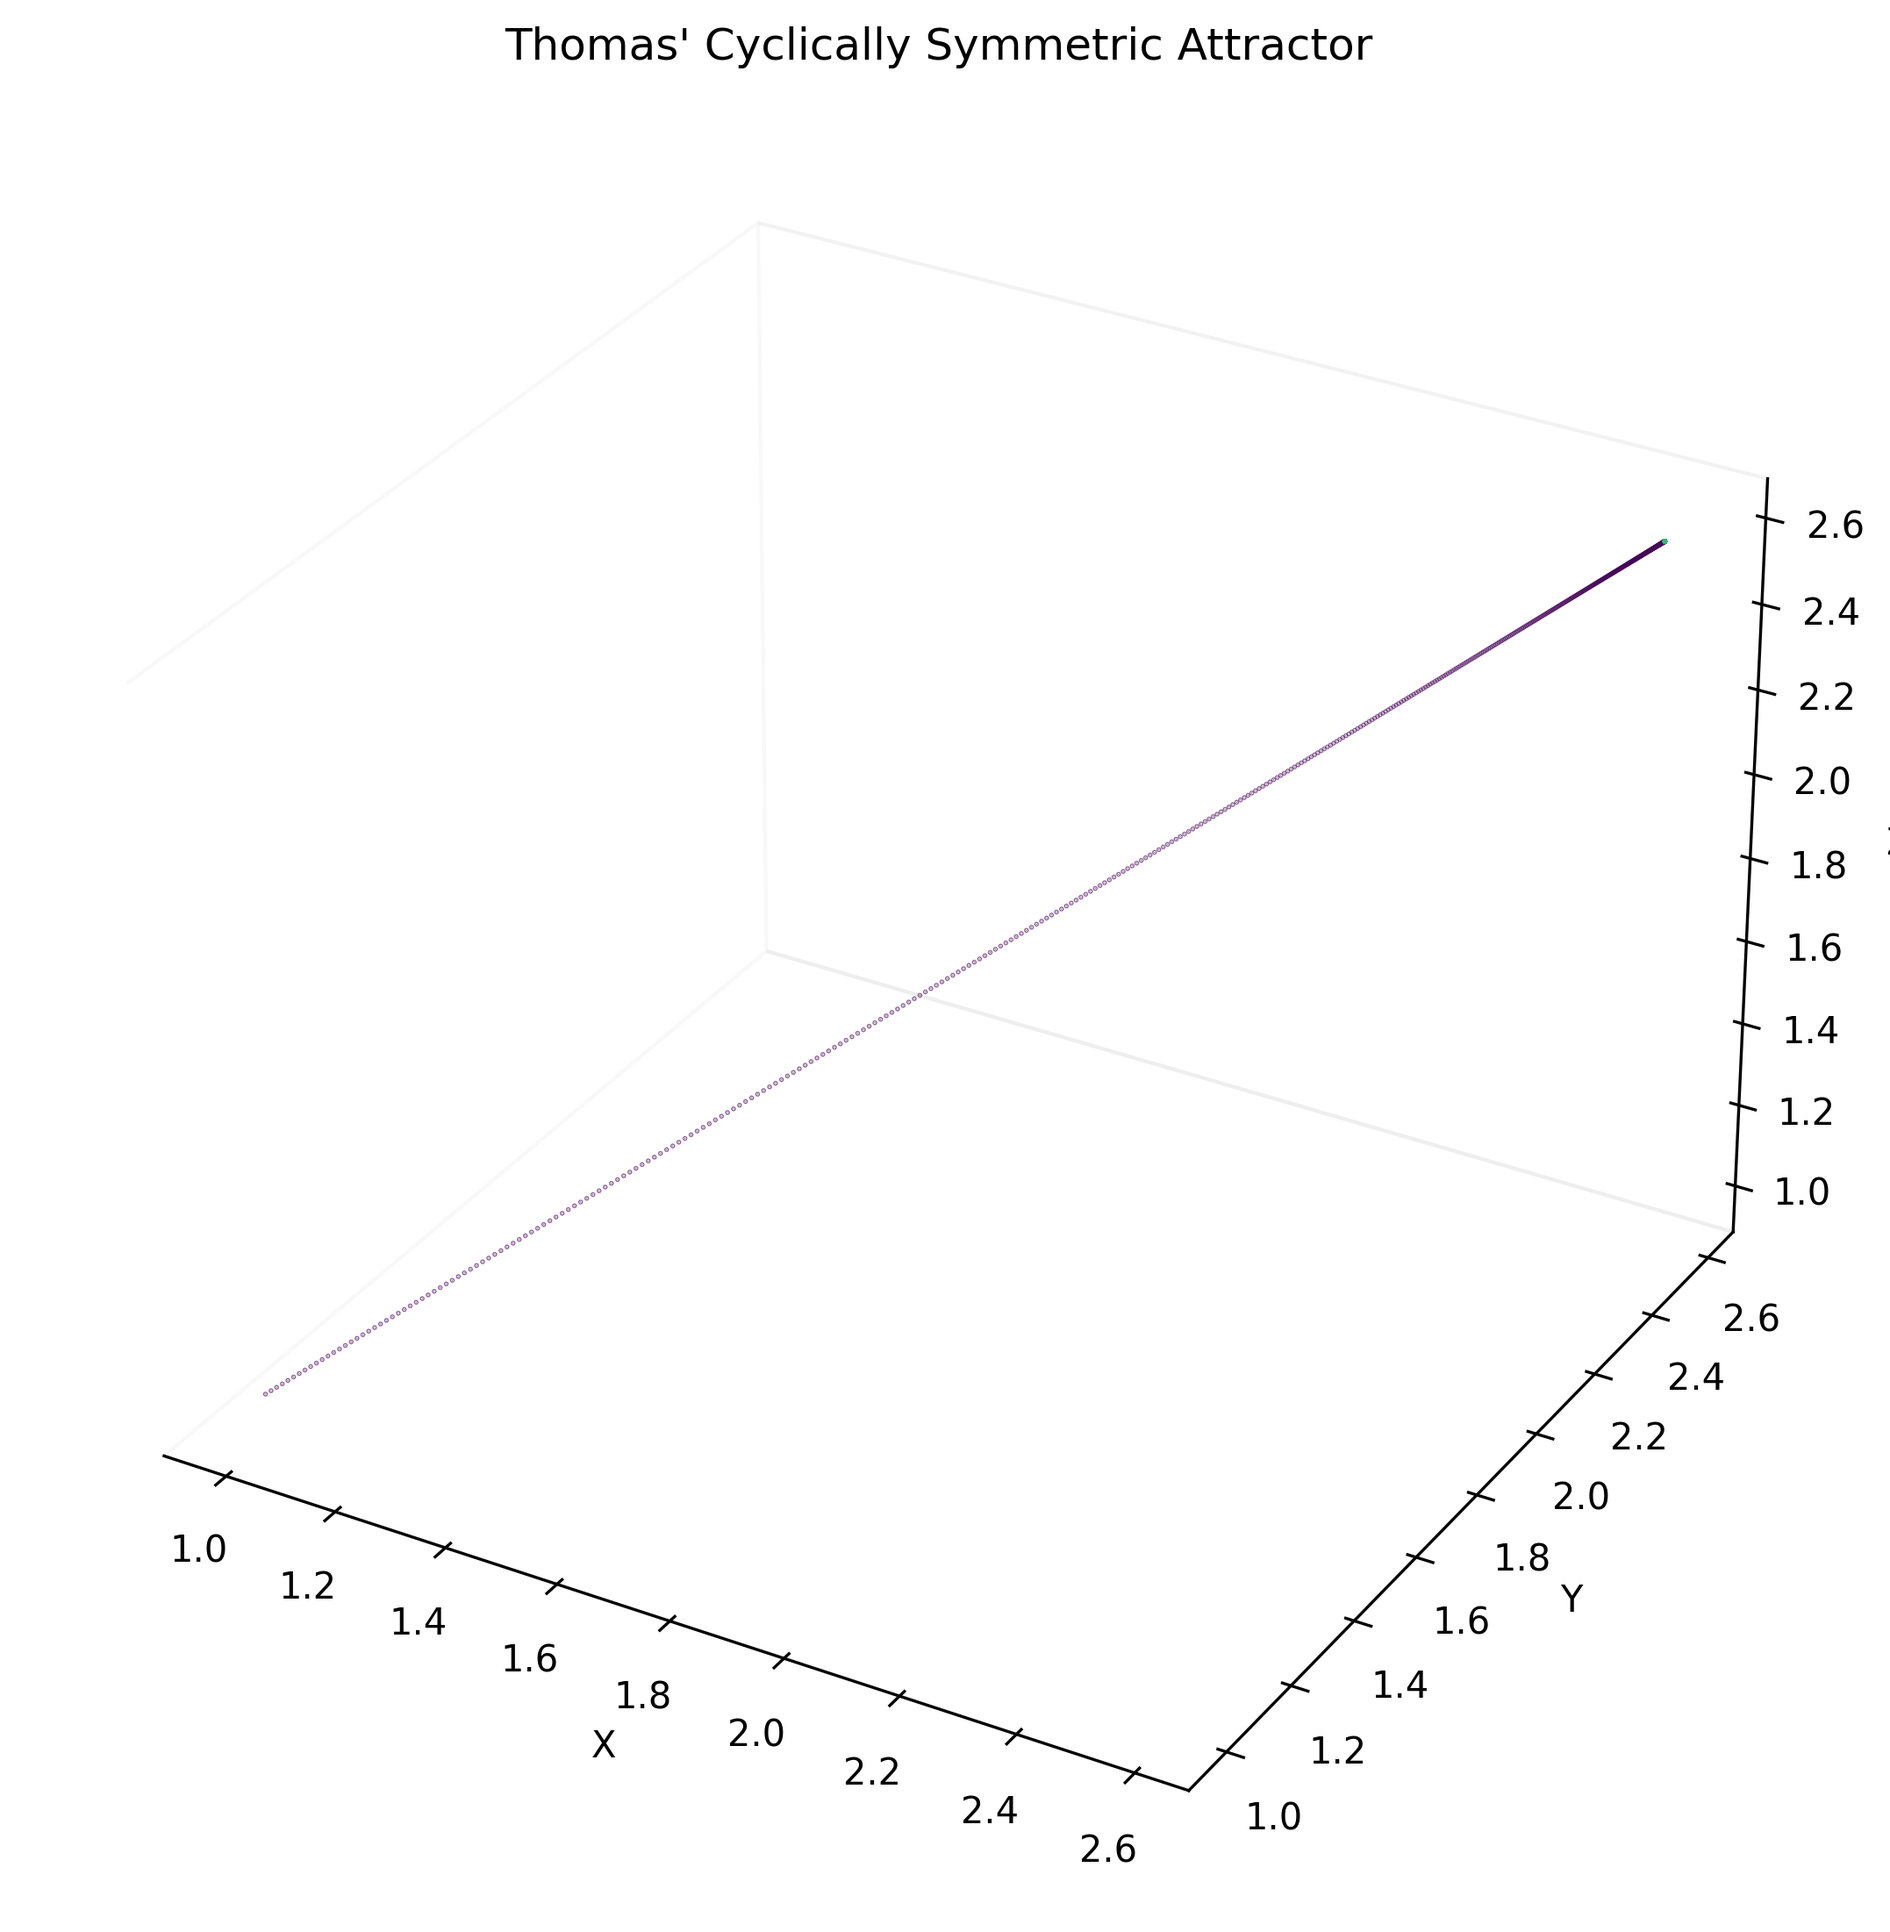
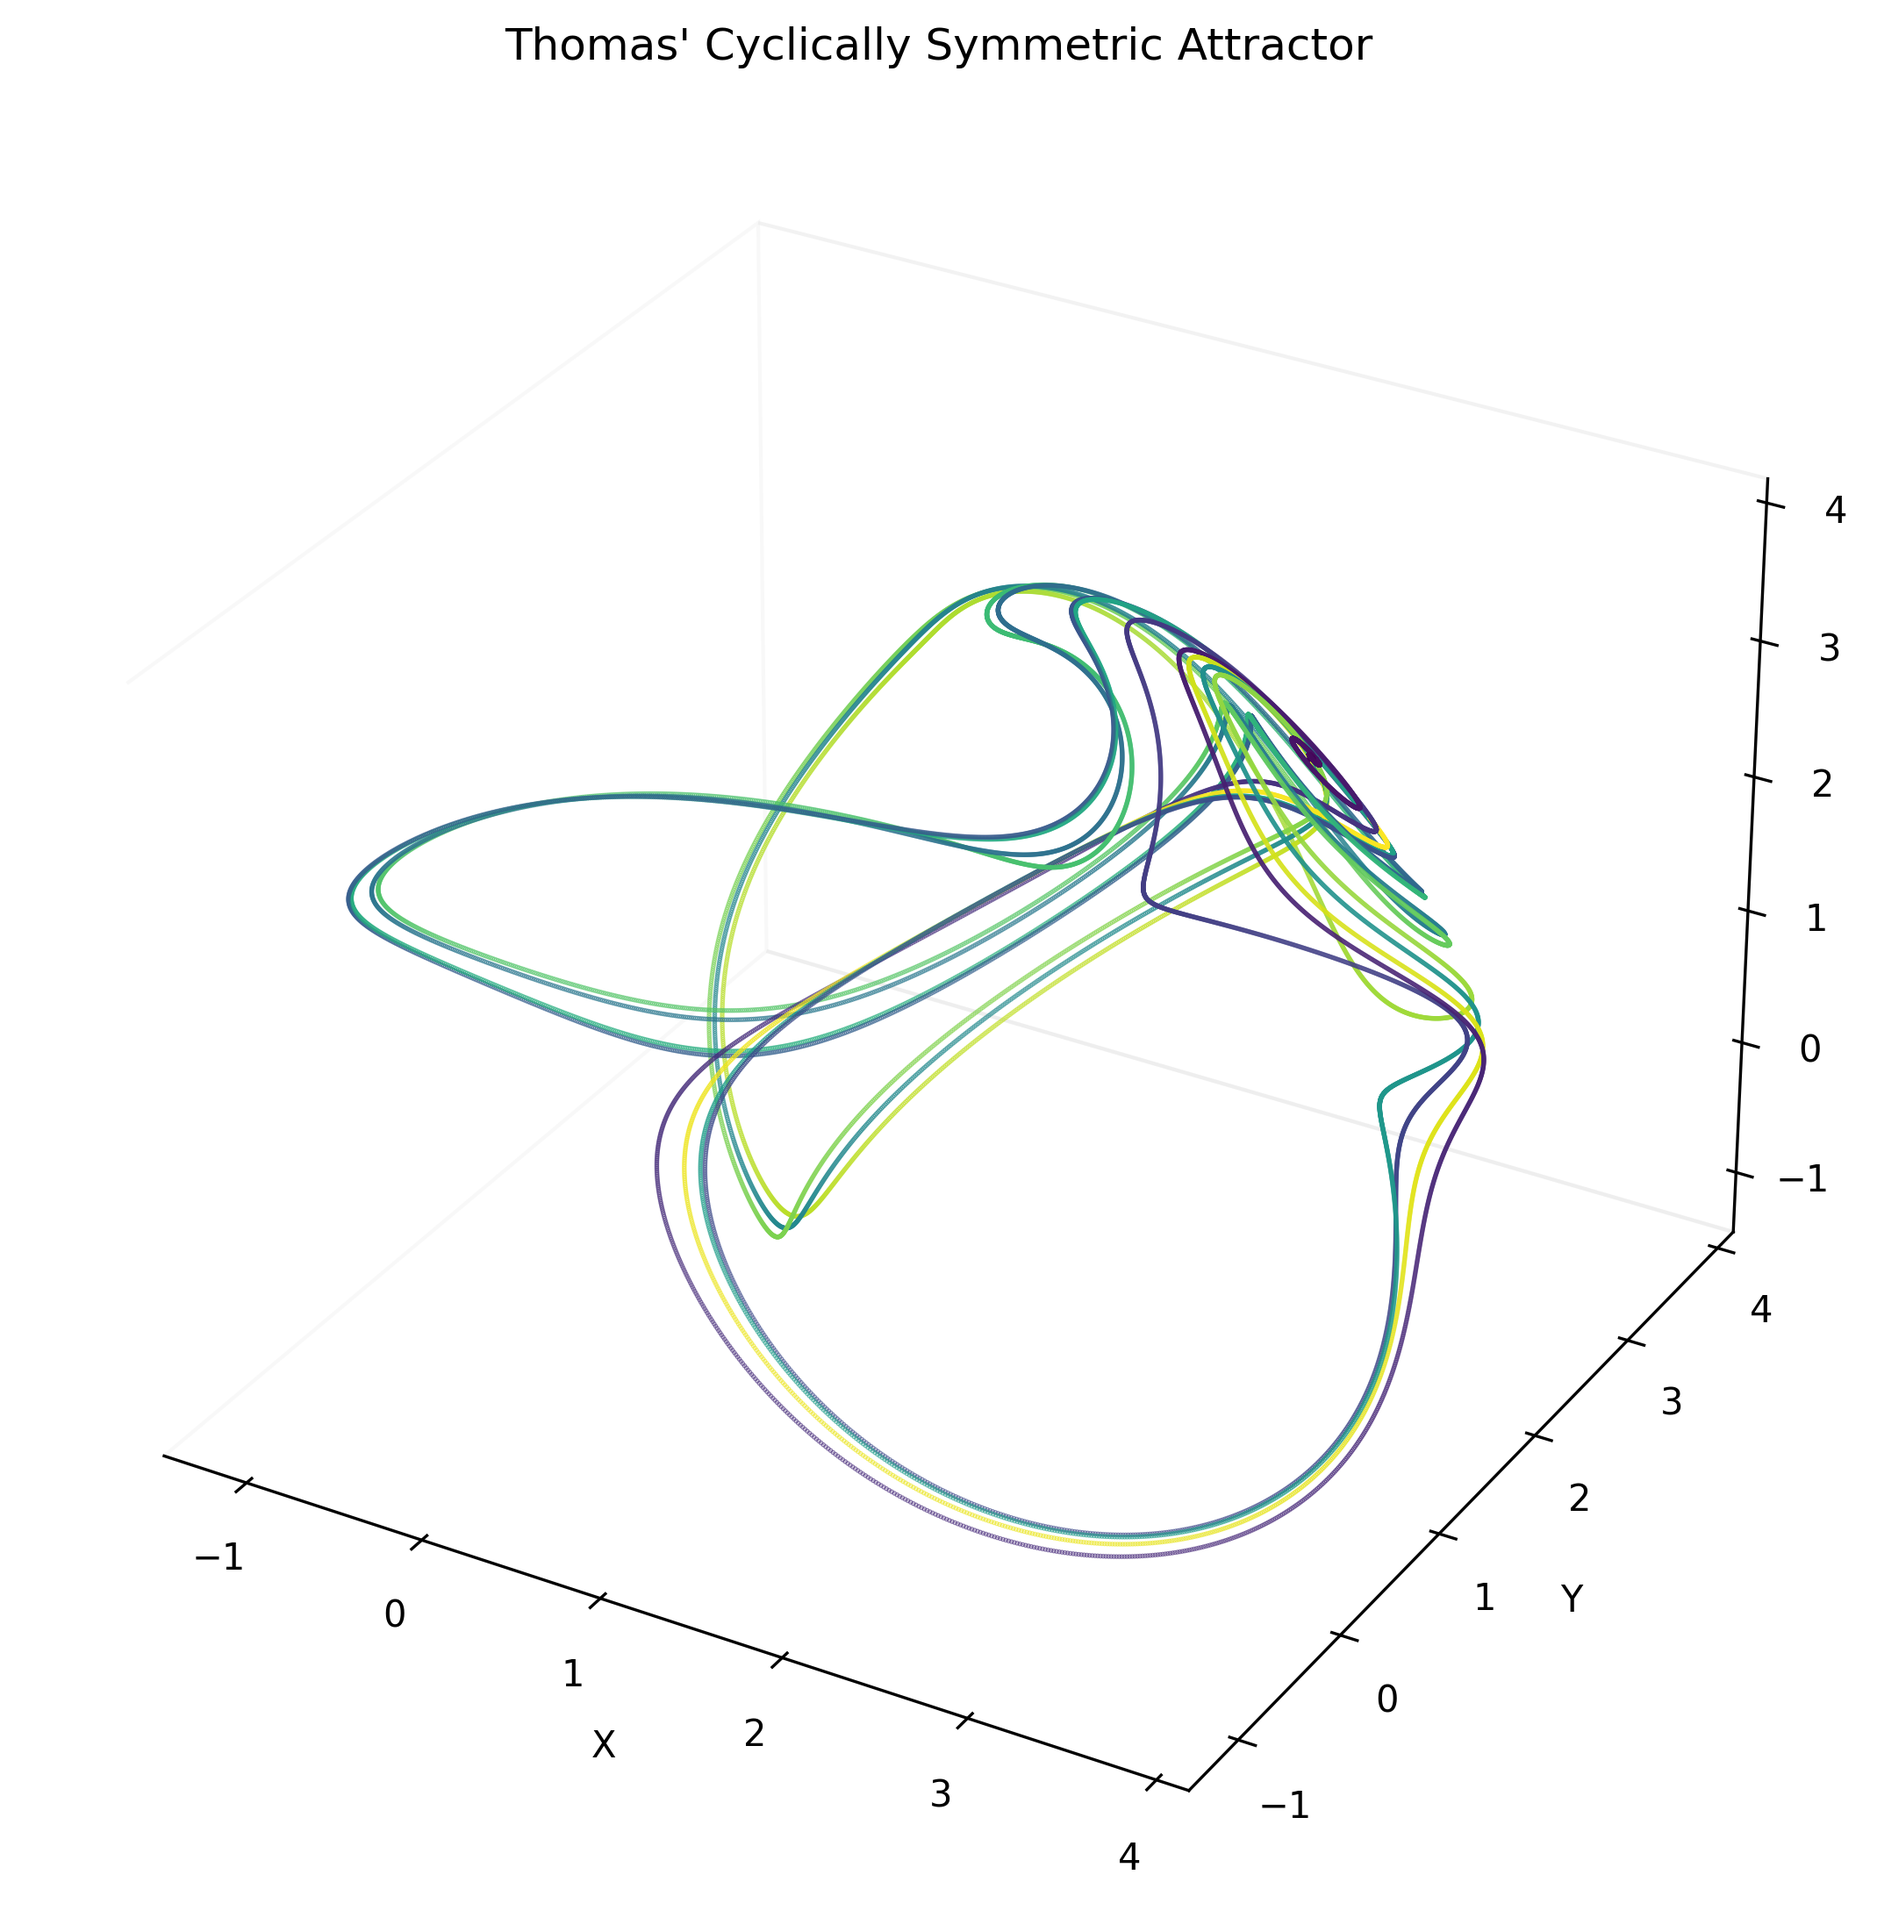
Apply Claude B's Thomas attractor fix - it's beautiful now\!

diff --git a/strange_attractors.py b/strange_attractors.py
@@ -61,11 +61,20 @@ def thomas(state, b=0.208186, dt=0.01):
     return np.array([x + dx, y + dy, z + dz])
 
 
-def generate_trajectory(attractor_func, initial_state, steps=10000, **kwargs):
-    """Generate a trajectory through the attractor's phase space"""
-    trajectory = np.zeros((steps, 3))
+def generate_trajectory(attractor_func, initial_state, steps=10000, warmup=1000, **kwargs):
+    """Generate a trajectory through the attractor's phase space
+
+    Args:
+        warmup: Number of initial steps to discard (skip transient behavior)
+    """
     state = np.array(initial_state, dtype=float)
 
+    # Warmup period - let the system settle into the attractor
+    for _ in range(warmup):
+        state = attractor_func(state, **kwargs)
+
+    # Now record the actual trajectory
+    trajectory = np.zeros((steps, 3))
     for i in range(steps):
         trajectory[i] = state
         state = attractor_func(state, **kwargs)
@@ -134,7 +143,7 @@ def main():
         },
         'thomas': {
             'func': thomas,
-            'initial': [1.0, 1.0, 1.0],
+            'initial': [0.1, 0.0, 0.0],  # Fixed by Claude B - better initial conditions
             'title': "Thomas' Cyclically Symmetric Attractor"
         }
     }
